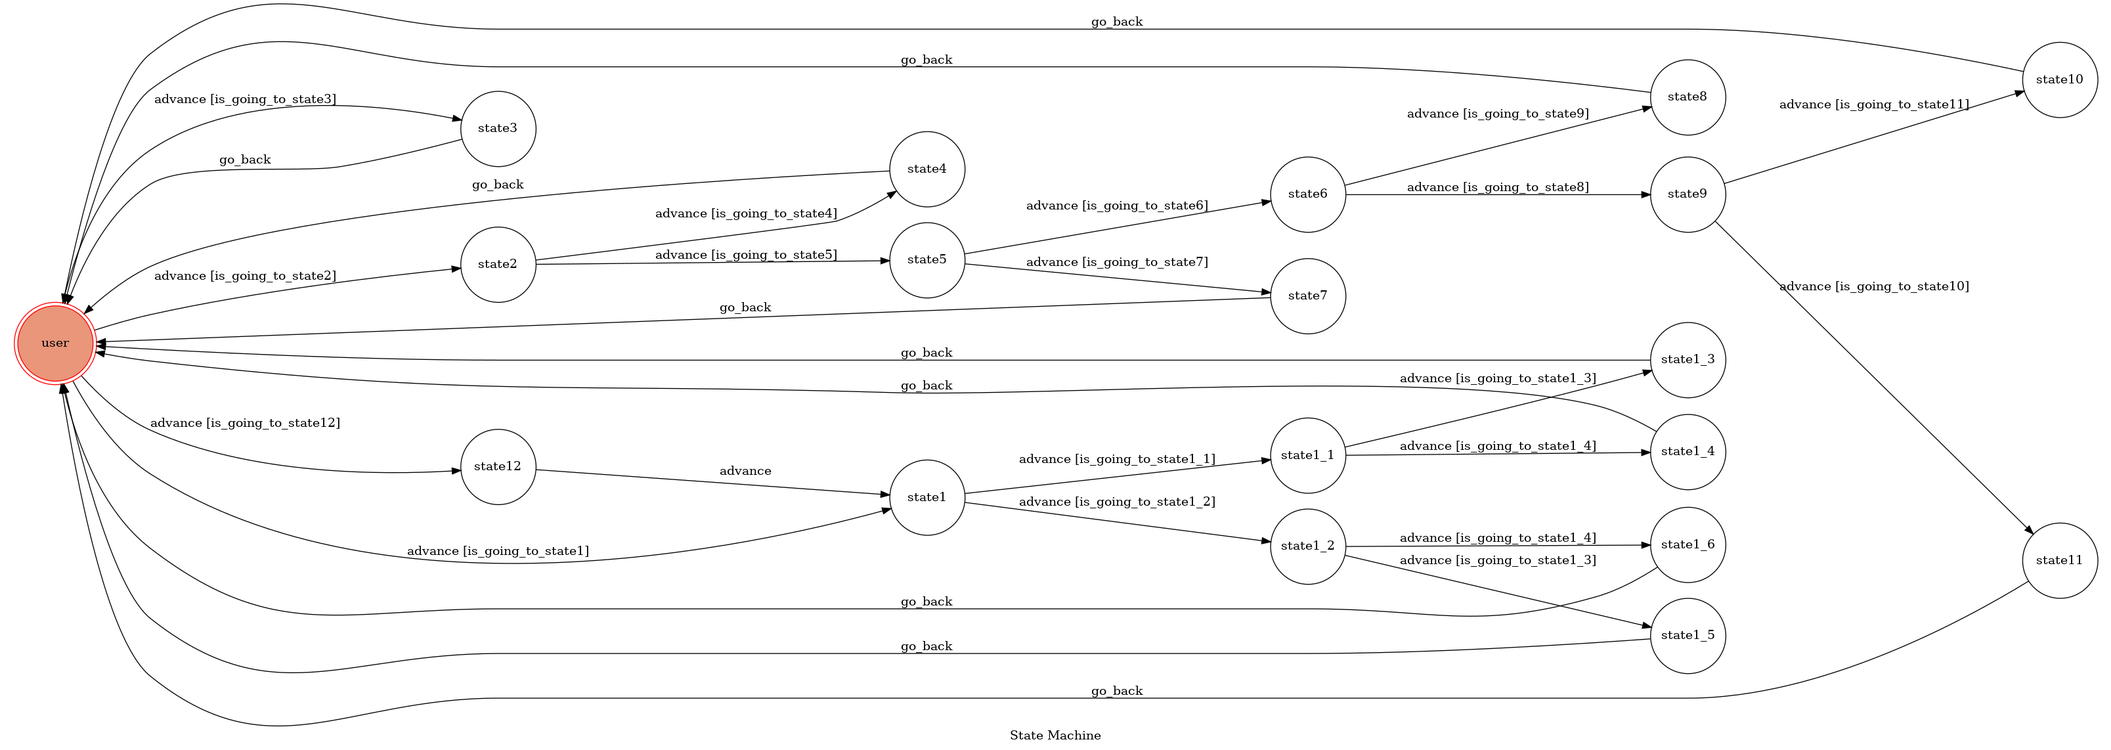
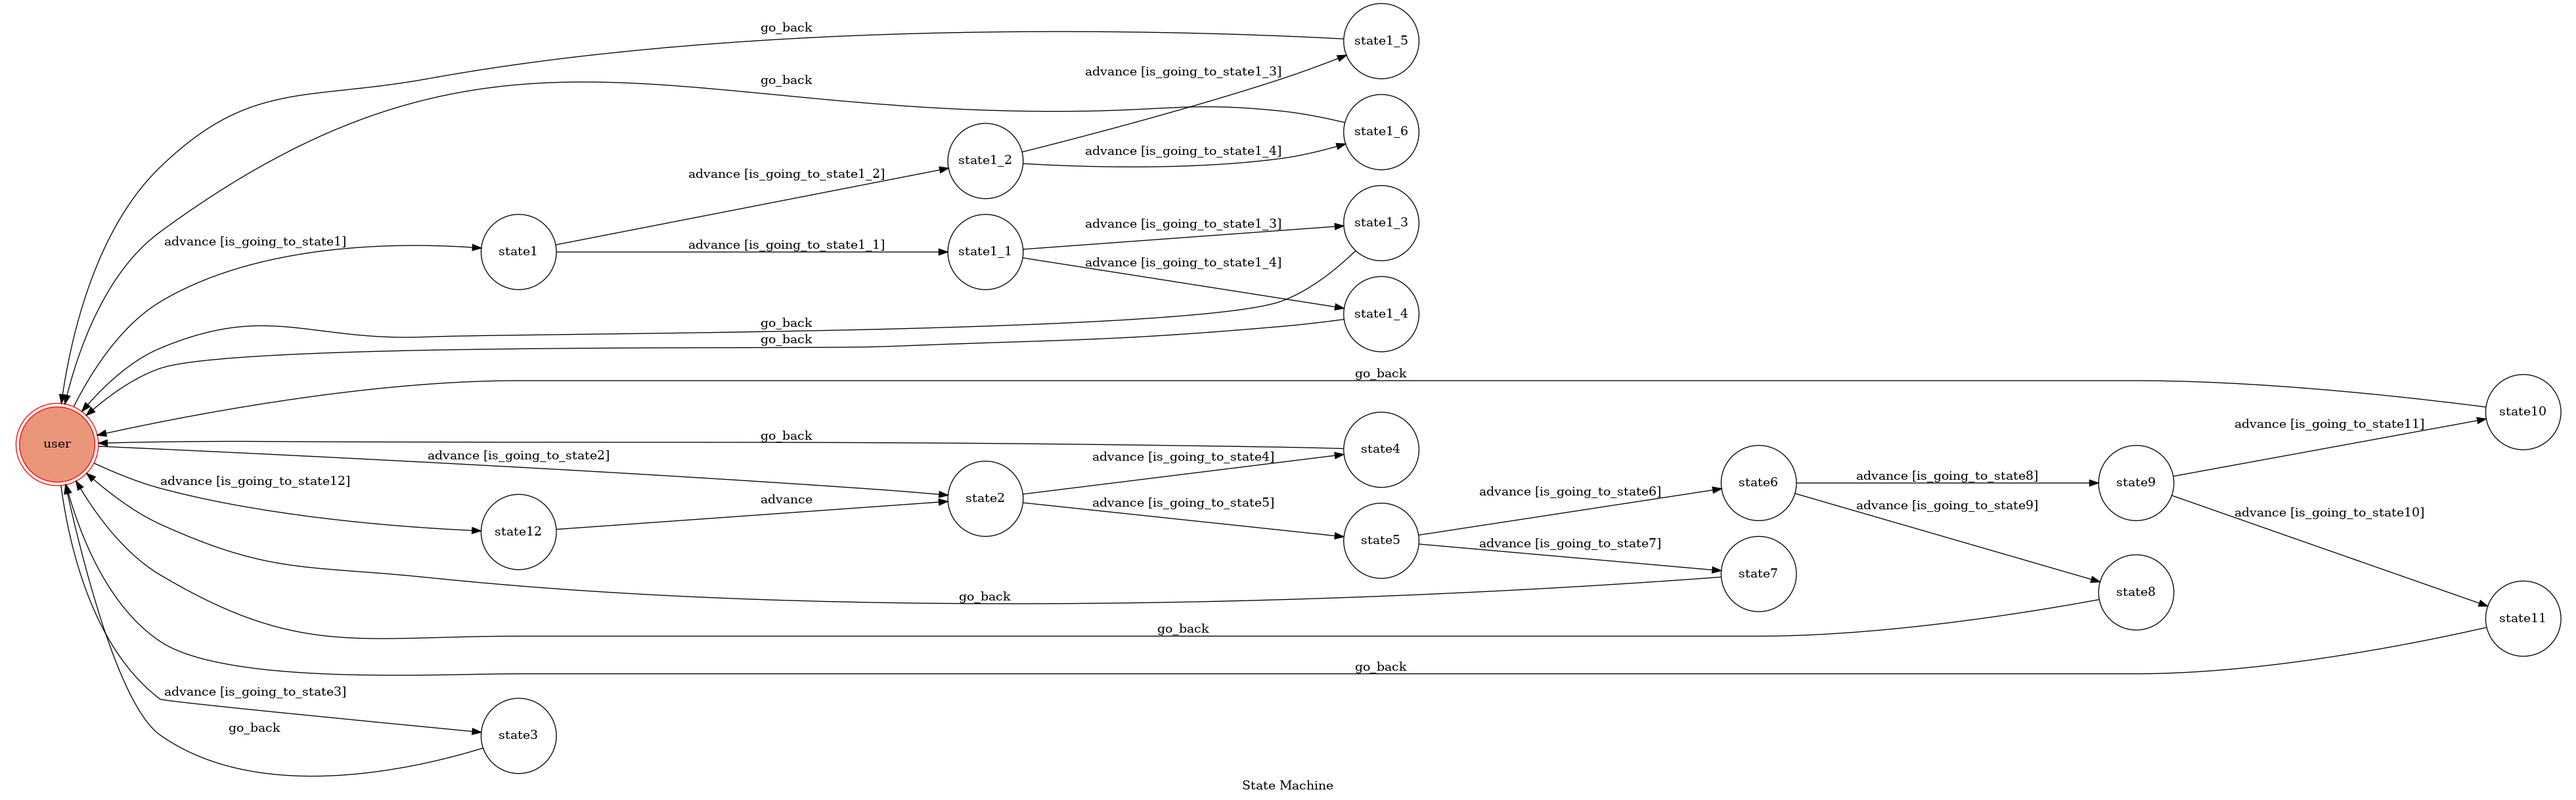
revise logic

diff --git a/app.py b/app.py
@@ -8,6 +8,12 @@ machine = TocMachine(
     states=[
         'user',
         'state1',
+        'state1_1',
+        'state1_2',
+        'state1_3',
+        'state1_4',
+        'state1_5',
+        'state1_6',
         'state2',
         'state3',
         'state4',
@@ -17,7 +23,8 @@ machine = TocMachine(
         'state8',
         'state9',
         'state10',
-        'state11'
+        'state11',
+        'state12'
     ],
     transitions=[
         {
@@ -131,7 +138,7 @@ machine = TocMachine(
         {
             'trigger': 'advance',
             'source': 'state12',
-            'dest': 'state1',
+            'dest': 'state2',
         },##################
         {
             'trigger': 'go_back',

diff --git a/README.md b/README.md
@@ -30,7 +30,7 @@ Every time `user` state is triggered to `advance` to another state, it will `go_
 		
 	* Input: "吃香格里拉"
 		* Reply: "NOOOO!!!!!海港海港海港海港海港海港海港...(洗腦中)你被洗腦了，然後你走出香格里拉，邁向海港。"
-		* Next State: state12→state1
+		* Next State: state12→state2
 
 	* Input: "吃海港"
 		* Reply: "您真是會選擇，好吃的自助餐在海港，猜猜看好吃的時段是甚麼時候？[下午茶]或[晚餐]？"
